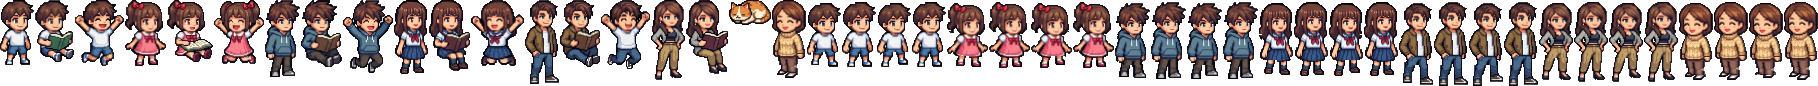
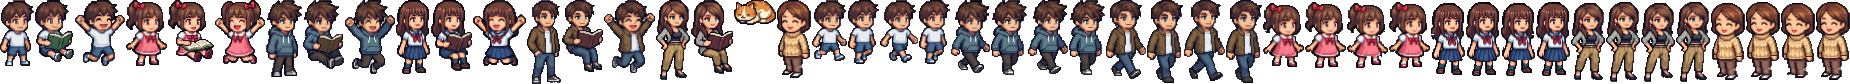
v0.4.2: 아들 걷기 스프라이트 시트 적용
- 아들 손그림 걷기 3장(A-B-C-B 사이클) + 서기/독서/만세 교체
- 빌드 스크립트 다중 시트 지원, 걷기 프레임 키 보정

Claude-Session: https://claude.ai/code/session_01VYXQzVYR4chXqJ2j5munDD

diff --git a/src/components/TitleScreen.tsx b/src/components/TitleScreen.tsx
@@ -59,7 +59,7 @@ export function TitleScreen({ onStart }: { onStart: () => void }) {
           <PixelButton color="bg-sky" onClick={() => setMode('book')}>
             👑 엔딩 도감 ({unlockedEndings.length}/{ENDINGS.length})
           </PixelButton>
-          <p className="mt-2 text-[10px] text-white/60">v0.4.1 · 걷기 애니메이션</p>
+          <p className="mt-2 text-[10px] text-white/60">v0.4.2 · 아들 걷기 시트</p>
         </div>
       )}
 

diff --git a/scripts/build-sprites.py b/scripts/build-sprites.py
@@ -7,7 +7,8 @@ assets-src/character-sheet.png (흰 배경 캐릭터 시트) →
 1) 흰 배경이 아닌 픽셀을 묶어 스프라이트 19개를 자동 검출
 2) 테두리에서 이어지는 흰색만 배경으로 지움 (흰 티셔츠는 유지)
 3) 업스케일된 도트(약 5.67px = 1도트)를 원래 해상도로 축소
-4) 시트에 없는 걷기 동작을 '서기' 프레임에서 생성: 다리를 좌우로 나눠 번갈아 들고,
+4) 아들은 assets-src/son-walk-sheet.png 의 손그림 걷기 3장(A·B·C → A,B,C,B 사이클) 사용
+5) 손그림 걷기가 없는 캐릭터는 '서기' 프레임에서 생성: 다리를 좌우로 나눠 번갈아 들고,
    팔을 반대로 흔들고, 발 디딤 순간 몸이 1px 내려앉는 4프레임 사이클 → {이름}_walk0~3
 """
 import json
@@ -32,11 +33,6 @@ NAMES = [
     'YOUTH_DAUGHTER_stand', 'YOUTH_DAUGHTER_read',
     'CAT_sleep', 'PARENT_stand',
 ]
-
-img = np.asarray(Image.open(SRC).convert('RGB')).astype(np.int32)
-H, W, _ = img.shape
-nonwhite = (765 - img.sum(axis=2)) > 60
-
 
 def components(mask, f=4, min_cells=200):
     h, w = mask.shape[0] // f, mask.shape[1] // f
@@ -69,14 +65,20 @@ def components(mask, f=4, min_cells=200):
     return boxes
 
 
-boxes = components(nonwhite)
-assert len(boxes) == len(NAMES), f'expected {len(NAMES)} sprites, found {len(boxes)}'
-# 행(세로 위치) → 열(가로 위치) 순 정렬
-rows = sorted({round(((b[1] + b[3]) / 2) / (H / 3) - 0.5) for b in boxes})
-boxes.sort(key=lambda b: (int(((b[1] + b[3]) / 2) // (H / 3)), b[0]))
+
+def load_sheet(path, names):
+    """시트에서 스프라이트를 찾아 (이름, 프레임) 목록으로 반환. 3행 그리드 기준 행→열 순 정렬"""
+    img = np.asarray(Image.open(path).convert('RGB')).astype(np.int32)
+    H = img.shape[0]
+    nonwhite = (765 - img.sum(axis=2)) > 60
+    boxes = components(nonwhite)
+    assert len(boxes) == len(names), f'{path}: expected {len(names)} sprites, found {len(boxes)}'
+    boxes.sort(key=lambda b: (int(((b[1] + b[3]) / 2) // (H / 3)), b[0]))
+    return [(n, cut(img, b)) for n, b in zip(names, boxes)], img, dict(zip(names, boxes))
 
 
-def cut(box):
+def cut(img, box, block=BLOCK):
+    H, W, _ = img.shape
     x0, y0, x1, y1 = box
     pad = 6
     x0, y0, x1, y1 = max(0, x0 - pad), max(0, y0 - pad), min(W, x1 + pad), min(H, y1 + pad)
@@ -103,7 +105,7 @@ def cut(box):
                 q.append((ny, nx))
     fg = (~bg).astype(np.float64)
     # 배경색이 섞이지 않도록 전경 색만 평균 (premultiplied box 축소)
-    tw, th = max(1, round(w / BLOCK)), max(1, round(h / BLOCK))
+    tw, th = max(1, round(w / block)), max(1, round(h / block))
     prem = Image.fromarray(np.uint8(np.clip(crop * fg[..., None], 0, 255)))
     cov = Image.fromarray(np.uint8(fg * 255))
     prem_s = np.asarray(prem.resize((tw, th), Image.Resampling.BOX)).astype(np.float64)
@@ -114,9 +116,6 @@ def cut(box):
     # 투명 여백 잘라내기
     ys, xs = np.where(out[..., 3] > 0)
     return out[ys.min() : ys.max() + 1, xs.min() : xs.max() + 1]
-
-
-frames = [cut(b) for b in boxes]
 
 
 def walk_frames(s):
@@ -193,14 +192,38 @@ def walk_frames(s):
     return frames
 
 
-names = list(NAMES)
-for name, f in list(zip(NAMES, frames)):
+# 아들 걷기 시트: 단계별 [서기, 걷기A, 걷기B(교차), 걷기C, 독서, 만세]
+SON_SHEET = 'assets-src/son-walk-sheet.png'
+SON_NAMES = [f'{st}_SON_{k}' for st in ('CHILD', 'TEEN', 'YOUTH') for k in ('stand', 'walkA', 'walkB', 'walkC', 'read', 'cheer')]
+
+sprites = dict(load_sheet(SRC, NAMES)[0])
+son_list, son_img, son_boxes = load_sheet(SON_SHEET, SON_NAMES)
+son = dict(son_list)
+# 걷기 그림이 서기보다 작게 그려진 경우가 있어, 교차 프레임(B) 키가 서기 키 -1px 이 되도록 축소 비율 보정
+for st in ('CHILD', 'TEEN', 'YOUTH'):
+    k = (son[f'{st}_SON_stand'].shape[0] - 1) / son[f'{st}_SON_walkB'].shape[0]
+    if abs(k - 1) > 0.02:
+        for x in 'ABC':
+            son[f'{st}_SON_walk{x}'] = cut(son_img, son_boxes[f'{st}_SON_walk{x}'], BLOCK / k)
+# 아들 프레임은 새 시트로 교체 (청년 아들 만세도 재킷 차림으로)
+for k in ('stand', 'read', 'cheer'):
+    for st in ('CHILD', 'TEEN', 'YOUTH'):
+        sprites[f'{st}_SON_{k}'] = son[f'{st}_SON_{k}']
+for st in ('CHILD', 'TEEN', 'YOUTH'):
+    a, b, c = (son[f'{st}_SON_walk{x}'] for x in 'ABC')
+    for i, f in enumerate((a, b, c, b)):  # 4프레임 사이클: 왼발 → 교차 → 오른발 → 교차
+        sprites[f'{st}_SON_walk{i}'] = f
+
+# 손그림 걷기가 없는 캐릭터(딸, 부모님)는 서기 프레임에서 생성
+for name in list(sprites):
     if name.endswith('_stand'):
         base = name[: -len('_stand')]
-        for i, wf in enumerate(walk_frames(f)):
-            names.append(f'{base}_walk{i}')
-            frames.append(wf)
+        if f'{base}_walk0' not in sprites:
+            for i, wf in enumerate(walk_frames(sprites[name])):
+                sprites[f'{base}_walk{i}'] = wf
 
+names = list(sprites)
+frames = [sprites[n] for n in names]
 gap = 1
 aw = sum(f.shape[1] for f in frames) + gap * (len(frames) - 1)
 ah = max(f.shape[0] for f in frames)

diff --git a/CHANGELOG.md b/CHANGELOG.md
@@ -1,5 +1,15 @@
 # Changelog
 
+## v0.4.2 — 아들 걷기 스프라이트 시트 적용
+
+### 추가
+- `assets-src/son-walk-sheet.png`: 아들 유년·청소년·청년 × [서기, 걷기 3장, 독서, 만세] 손그림 시트
+- `scripts/build-sprites.py`가 여러 시트를 읽도록 확장
+  - 아들의 서기·독서·만세 프레임을 새 시트로 교체 (청년 아들 만세는 재킷 차림)
+  - 아들 걷기: 손그림 3장을 A → B → C → B 4프레임 사이클로 사용 (자동 생성 걷기 대체)
+  - 걷기 그림과 서기 그림의 키가 달라 보이지 않도록 걷기 프레임 축소 비율 자동 보정
+- 딸·부모님은 손그림 걷기 시트가 없어 기존 자동 생성 걷기 유지
+
 ## v0.4.1 — 자연스러운 걷기 애니메이션
 
 ### 추가
